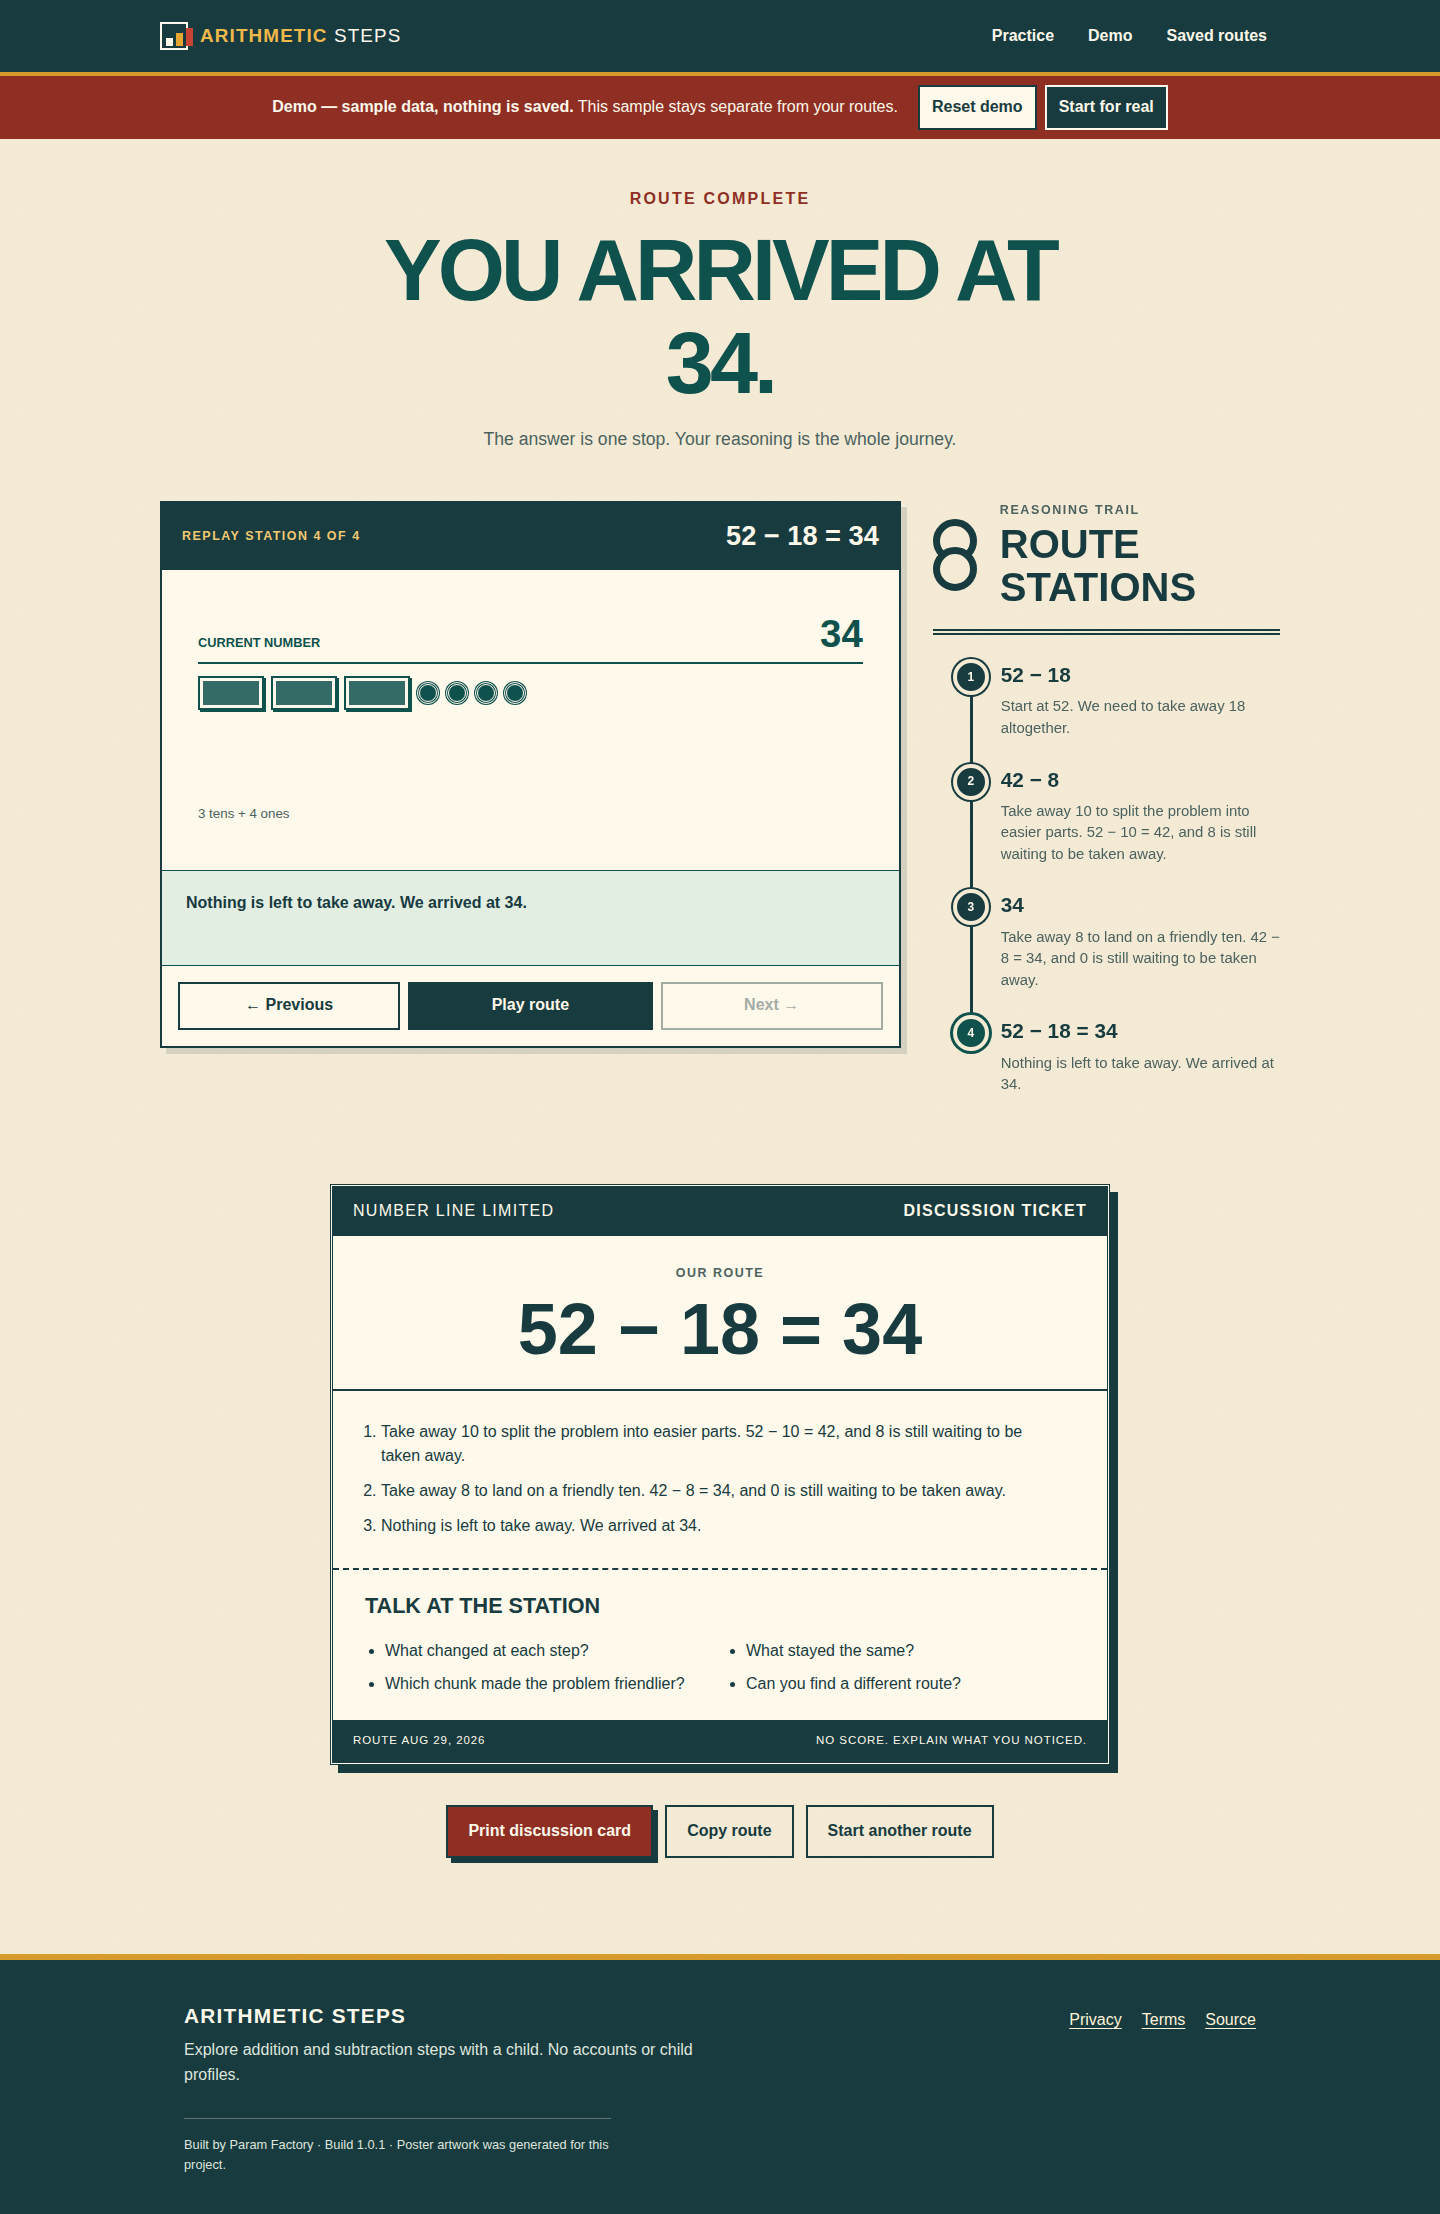
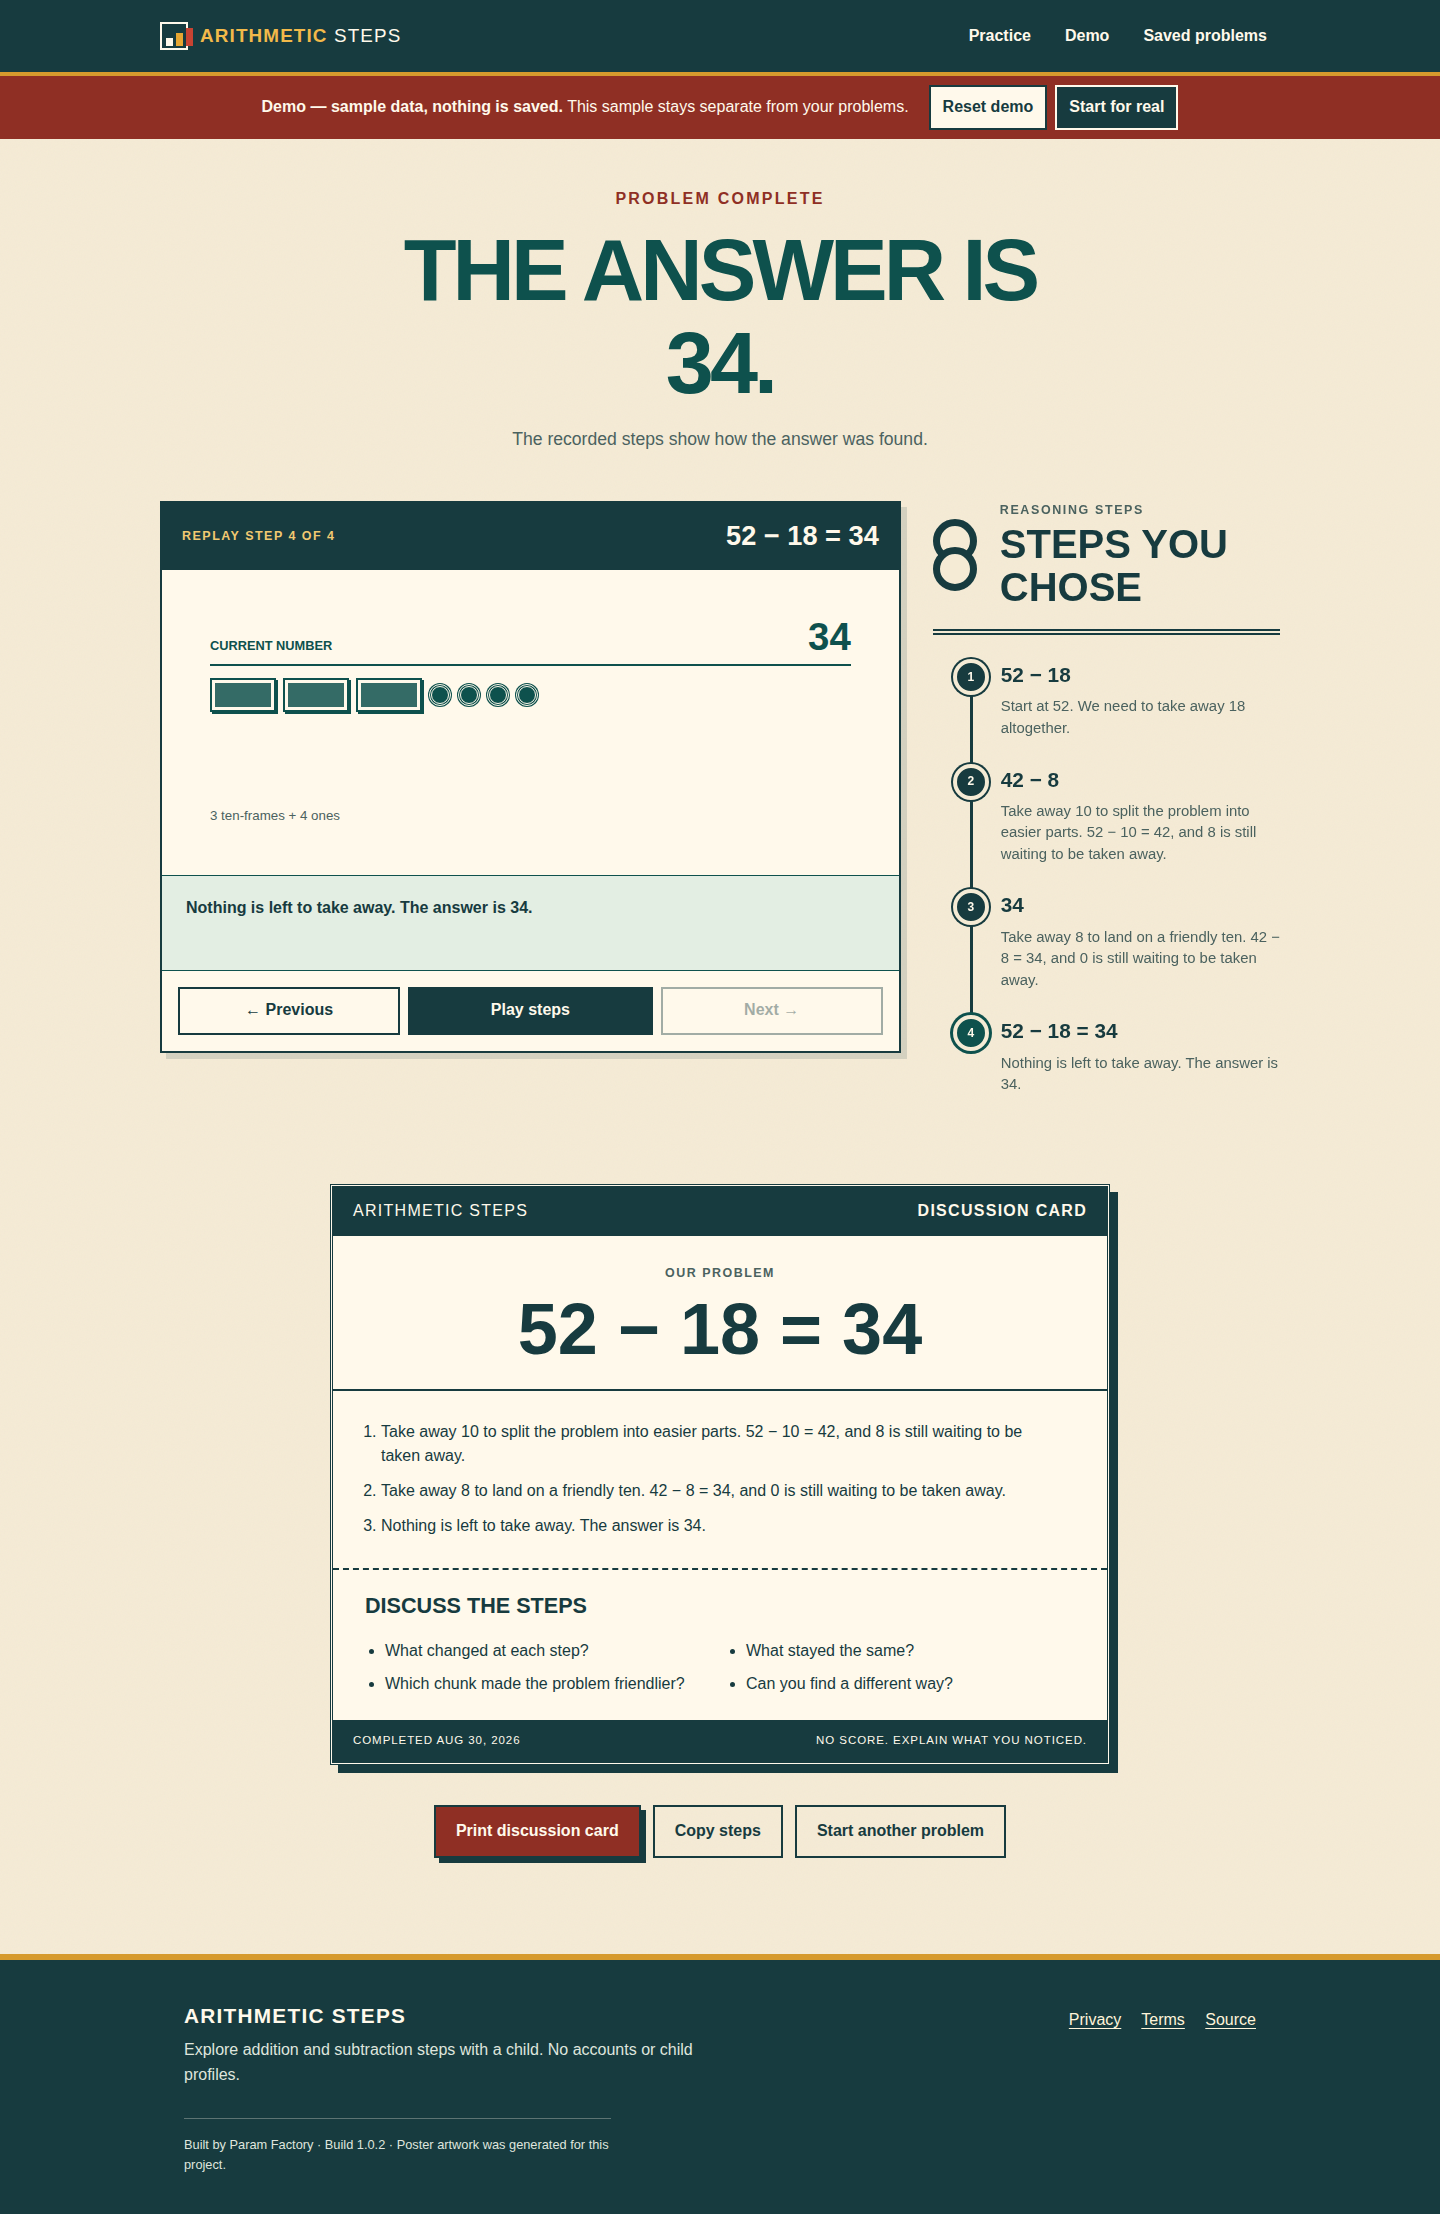
test: guard external pedagogy review claim

diff --git a/tests/static-contract.test.ts b/tests/static-contract.test.ts
@@ -80,6 +80,43 @@ describe("static hosting contract", () => {
     expect(liveChecker).not.toContain('one station at a time');
   });
 
+  it("keeps the external pedagogy-review requirement honest until a qualified reviewer records it", async () => {
+    const [briefText, review, app, readme] = await Promise.all([
+      readFile(resolve(root, ".factory/brief.json"), "utf8"),
+      readFile(resolve(root, ".factory/pedagogy-review.md"), "utf8"),
+      readFile(resolve(root, "src/main.ts"), "utf8"),
+      readFile(resolve(root, "README.md"), "utf8")
+    ]);
+    const brief = JSON.parse(briefText) as { constraints: string[] };
+
+    expect(brief.constraints).toContain("Teacher-reviewed pedagogy");
+    const fields = [
+      "Reviewer name and elementary-teaching qualification:",
+      "Review date:",
+      "Ages/grades considered:",
+      "Problems exercised (include addition and subtraction):",
+      "Direct-drag and keyboard-control observations:",
+      "Narration, replay, and discussion-card feedback:",
+      "Required changes:",
+      "Changes made and follow-up decision:"
+    ];
+    const reviewLines = review.split(/\r?\n/);
+    const hasCompletedReviewRecord = fields.every((field) => {
+      const line = reviewLines.find((candidate) => candidate.startsWith(`- ${field}`));
+      return line !== undefined && line.slice(`- ${field}`.length).trim().length > 0;
+    });
+    const publicTeacherReviewClaim = /teacher-reviewed pedagogy/i.test(`${app}\n${readme}`);
+
+    for (const field of fields) {
+      expect(review).toContain(field);
+    }
+    if (!hasCompletedReviewRecord) {
+      expect(review).toContain("No named elementary teacher has reviewed this release in the repository.");
+      expect(review).toContain("This file deliberately does **not** certify the product as teacher-reviewed.");
+    }
+    expect(hasCompletedReviewRecord || !publicTeacherReviewClaim).toBe(true);
+  });
+
   it("gives every registered public claim one exactly tagged browser regression", async () => {
     const [claimsText, browserTests] = await Promise.all([
       readFile(resolve(root, ".factory/claims.json"), "utf8"),

diff --git a/.factory/handoff.md b/.factory/handoff.md
@@ -1,130 +1,86 @@
-# Arithmetic Steps — repair 6 handoff
+# Arithmetic Steps — repair 7 handoff
 
-- Work order: `arithmetic-steps-repair-6`
-- Verifier report: `7985208c766353af83eafc990160e09e095b1904`
-- Verified candidate: `d0cc4bc4b49097539ce8aa35b4ebd0e28a7caa9b`
-- QA-harness repair: `460bd01` (`test: repair independent live QA harness`)
+- Work order: `arithmetic-steps-repair-7`
+- Verifier report: `.factory/verification-5.md`
+- Verified candidate: `4585b5872982db89aad80b4719493daf6bf14dc8`
 - Artifact: static local-first offline PWA (`dist/`)
 - Live URL: <https://arithmetic-steps.sociobot.in>
 
-## Outcome: FAIL — release remains blocked
+## Outcome: BLOCKED — external review still required
 
-The verifier's only documented product-QA blocker is still real: the researched
-brief requires **teacher-reviewed pedagogy**, while
-`.factory/pedagogy-review.md` truthfully records that no named qualified
-elementary teacher has reviewed this release. The brief and current product
-behavior were preserved. A repository worker cannot honestly manufacture a
-human qualification, review date, observations, or approval, so this P0 is
-not claimed as repaired.
+The independent verifier documented one P0 and no product defects. It is
+reproduced exactly: `.factory/brief.json` requires `Teacher-reviewed pedagogy`,
+while `.factory/pedagogy-review.md` truthfully says that no named elementary
+teacher has reviewed this release and all eight review-record fields are blank.
+`git log --all -- .factory/pedagogy-review.md` contains no completed review
+record.
 
-Independent verification 5 against candidate
-`4585b5872982db89aad80b4719493daf6bf14dc8` reconfirmed that all executable
-product, PWA, privacy, accessibility, response-policy, deployment, and claims
-checks pass, and the live runtime assets exactly match the fresh production
-build. The release result is nevertheless **FAIL** until the external review
-below is recorded. See `.factory/verification-5.md` for the full fresh
-evidence.
+This is missing external human acceptance evidence, not a software defect. No
+repository worker can truthfully create a qualified reviewer's identity,
+observations, date, or decision. The brief and all passing product behavior
+were preserved; the P0 is not claimed as repaired.
 
-## P0 reproduction and required resolution
+### Regression coverage for the reproduced P0
 
-Reproduced by reading both sources of truth:
+`tests/static-contract.test.ts` now has an exact honesty guard. It verifies
+that the brief retains the hard requirement, the review record continues to
+state that it is incomplete, every required field remains present for the
+reviewer, and neither the application nor README makes a false
+teacher-reviewed claim. Automation cannot prove that a human review happened;
+this guard prevents accidentally concealing the release block or shipping a
+false claim.
 
-- `.factory/brief.json` lists `Teacher-reviewed pedagogy` as a constraint.
-- `.factory/pedagogy-review.md` says no named elementary teacher has reviewed
-  this release; the required-review fields are empty. Git history contains no
-  earlier completed review record.
+To release, a qualified elementary teacher must exercise addition and
+subtraction, direct drag and keyboard controls, narration, replay, and the
+discussion card. Record their name/qualification, date, grades or ages,
+scenarios, observations, required changes, changes made, and follow-up
+decision in `.factory/pedagogy-review.md`; then rerun independent verification.
 
-Root cause: missing external human acceptance evidence, not a software defect.
-There is no truthful automated regression that can prove a person performed a
-review. Do not replace this requirement with an AI-generated or invented
-sign-off.
-
-Required next step: a qualified elementary teacher must exercise addition and
-subtraction, direct dragging and keyboard alternatives, narrated steps,
-replay, and the discussion card. Record their name and qualification, date,
-grades/ages, scenarios, observations, feedback, required changes, completed
-changes, and follow-up decision in `.factory/pedagogy-review.md`; then rerun
-independent verification.
-
-## Repair completed: independent live QA harness
-
-While rerunning the required live verification, the independent checker itself
-failed before it could validate the healthy product. Its selectors still used
-14 retired copy strings, including `Finish the route`, `You arrived at`,
-`Begin the route`, `Clear saved routes`, `Play route`, and `one station`.
-The shipped PWA correctly uses `Finish the problem`, `The answer is …`, and
-`Play steps`.
-
-- Updated `.factory/qa-artifacts/independent-live-qa.mjs` for all current
-  completion, validation, saved-problems, keyboard, and reduced-motion names.
-- Added a static regression contract in `tests/static-contract.test.ts`. It
-  asserts source and checker agreement on all corrected copy and rejects all
-  retired strings. This is exact coverage for the reproduced harness defect.
-- The corrected live checker passes desktop, 390px mobile, keyboard/reduced
-  motion, offline PWA, routes, links, privacy origins, and Axe checks.
-
-## Clean verification evidence
-
-Run on 2026-08-29 UTC from a clean install:
+## Verification on 2026-08-30 UTC
 
 ```sh
 npm ci
-npm test -- --fully-parallel --workers=4
+npm test
+# each exact command in .factory/claims.json:
+npm test -- --grep @claim:<id>
 npm run build
+node .factory/qa-artifacts/independent-live-qa.mjs
 VERIFY_NODE_MODULES=/work/repo/node_modules /opt/fleet/lib/verify-url.sh \
   https://arithmetic-steps.sociobot.in/ <temporary-evidence-dir>
 ```
 
 | Check | Result |
 | --- | --- |
-| Clean install | PASS — 61 packages; 0 audit vulnerabilities. |
-| Type/lint | PASS — `tsc --noEmit`. |
-| Unit/static contracts | PASS — 12 tests, including the new live-checker regression. |
-| Browser integration | PASS — 55 passed; 1 expected desktop skip for the mobile-only assertion. |
-| Claims | PASS — all 20 exact `npm test -- --grep @claim:<id>` commands. |
-| Production build | PASS — JS 36,216 B raw / 10,620 B gzip; CSS 26,361 B raw / 6,150 B gzip. |
-| Service worker | PASS — `arithmetic-steps-e639b0426049`, 24 precached URLs; no deployment config precached. |
-| Local URL smoke | PASS — title, `lang=en`, one h1, main, alt text, labelled controls, and zero console errors. |
+| Clean install | PASS — 61 packages installed; `npm audit` found 0 vulnerabilities. |
+| Type/unit/static | PASS — `tsc --noEmit`; 13 Vitest tests after the new review-status guard. |
+| Browser integration | PASS — 55 Playwright desktop/mobile tests passed; one Chromium run correctly skips the mobile-only viewport assertion. |
+| Claims | PASS — all 20 exact declared claim commands, including offline reload, local-only request policy, PWA installability, keyboard controls, persistence, export/import, reduced motion, and 390px controls. |
+| Production build | PASS — `dist/`; app JS 36.22 kB raw / 10.62 kB gzip, CSS 26.36 kB raw / 6.15 kB gzip; service worker `arithmetic-steps-e639b0426049` precaches 24 URLs. |
+| Desktop/mobile/keyboard | PASS — completed `52 − 18 = 34`, exercised validation and `99 + 1 = 100` export; 390px was `390/390` with no targets below 44px; Tab first reaches the skip link, Enter reaches `main`, and reduced-motion replay advances one step. |
+| Accessibility | PASS — Axe found zero violations on landing, demo, completion, history, legal routes, and 404. URL smoke: title, `lang=en`, one h1, main, alt text, and labelled buttons; zero console/page errors. |
+| Offline/update | PASS — activated controlling worker, versioned cache, deployment-only config excluded from precache, and offline `/demo` reload returned 200 with `52 − 18`. |
+| Privacy/live identity | PASS — all observed browser requests were same-origin GETs; no account, payment, analytics, iframe, API, or third-party runtime surface. |
+| Response policy | PASS — live HTTPS 200 with CSP including response-header `frame-ancestors 'none'`, HSTS, `X-Frame-Options: DENY`, nosniff, strict referrer policy, permissions policy, short HTML cache, immutable assets, and no-store service worker. |
 
-Corrected live matrix results:
+This PWA has no backend, identity/account, billing, API, CLI, or published
+package. Backend response/429, payment/identity, and package-consumer checks
+are therefore not applicable.
 
-- Completed `52 − 18 = 34`; invalid input stayed available for recovery;
-  `99 + 1 = 100` exported correctly; invalid JSON and clear-data paths worked.
-- At exactly 390 CSS px, `scrollWidth` = `clientWidth` = 390, all measured
-  controls were at least 44 px, and Axe found zero violations.
-- Keyboard starts at a 3 px brass/ink focus ring on the skip link; Enter moves
-  focus to `main`. Reduced motion advances one replay step and announces it.
-- Axe found zero total violations on landing, demo, completion, history, legal
-  pages, and 404; no console/page errors occurred.
-- Cold live requests were same-origin only; there are no account, payment,
-  child-identifier, analytics, iframe, third-party runtime, or API requests.
-- The activated worker controlled `/demo`, excluded `staticwebapp.config.json`
-  from precache, and offline reload returned HTTP 200 with `52 − 18`.
-- Internal links passed; the unknown route is a styled HTTP 404 with one h1
-  and main landmark.
+## Commit and deployment
 
-Post-deployment mobile Lighthouse: Performance **100**, Accessibility **100**,
-Best Practices **100**, SEO **100**; FCP **0.9 s**, LCP **1.1 s**, TBT **20
-ms**, CLS **0.005**, transfer **43 KiB**.
-
-## Deployment and identity
-
-Deployed with the work-order configuration:
+The repair-7 audit commit is pushed to `main`. The static deployment is made
+with the work-order command below.
 
 ```sh
 /opt/fleet/lib/deploy-static.sh arithmetic-steps dist
 ```
 
-- Azure Static Web Apps deployment: `91139341-129e-46d5-a23e-8ba442b0e513`
-- Default host: `nice-sand-031e48f10.7.azurestaticapps.net`
-- Custom domain: `https://arithmetic-steps.sociobot.in` returned HTTP 200.
-- Post-deploy URL smoke passed with zero console errors and required
-  title/lang/h1/main/alt/label checks.
-- Response policy passed: CSP including response-header `frame-ancestors 'none'`,
-  HSTS, `X-Frame-Options: DENY`, nosniff, strict referrer policy,
-  permissions policy, short HTML cache, and non-cacheable `sw.js`.
-
-Post-deploy artifacts exactly match `dist/`:
+- Azure Static Web Apps deployment: `22ca4e04-deef-4593-be6e-bf929f586c6e`
+- Default host: `https://nice-sand-031e48f10.7.azurestaticapps.net`
+- Custom domain: `https://arithmetic-steps.sociobot.in` returned HTTPS 200.
+- Post-deploy `verify-url.sh` passed in 799 ms with zero browser errors and
+  the required title, language, h1, main, alt text, and labelled controls.
+- Post-deploy SHA-256 values exactly match `dist/`:
 
 | File | SHA-256 |
 | --- | --- |
@@ -134,12 +90,8 @@ Post-deploy artifacts exactly match `dist/`:
[2 lines of base64/hex data omitted]
 
-## Applicability and known gap
+## Known gap and next step
 
-This remains the requested static PWA with local IndexedDB data. It has no
-backend, account/identity system, billing, product API, AI call, CLI, or
-published package; backend response/429, payment/identity, and package-
-consumer checks do not apply. Applicable local-first privacy, offline/update,
-browser, response-policy, and deployed-artifact checks above were run.
-
-Known release gap: the named elementary-teacher review remains outstanding.
+Release remains blocked solely by the absent qualified elementary-teacher
+review. Do not replace it with an AI-generated, anonymous, or invented sign-
+off.
